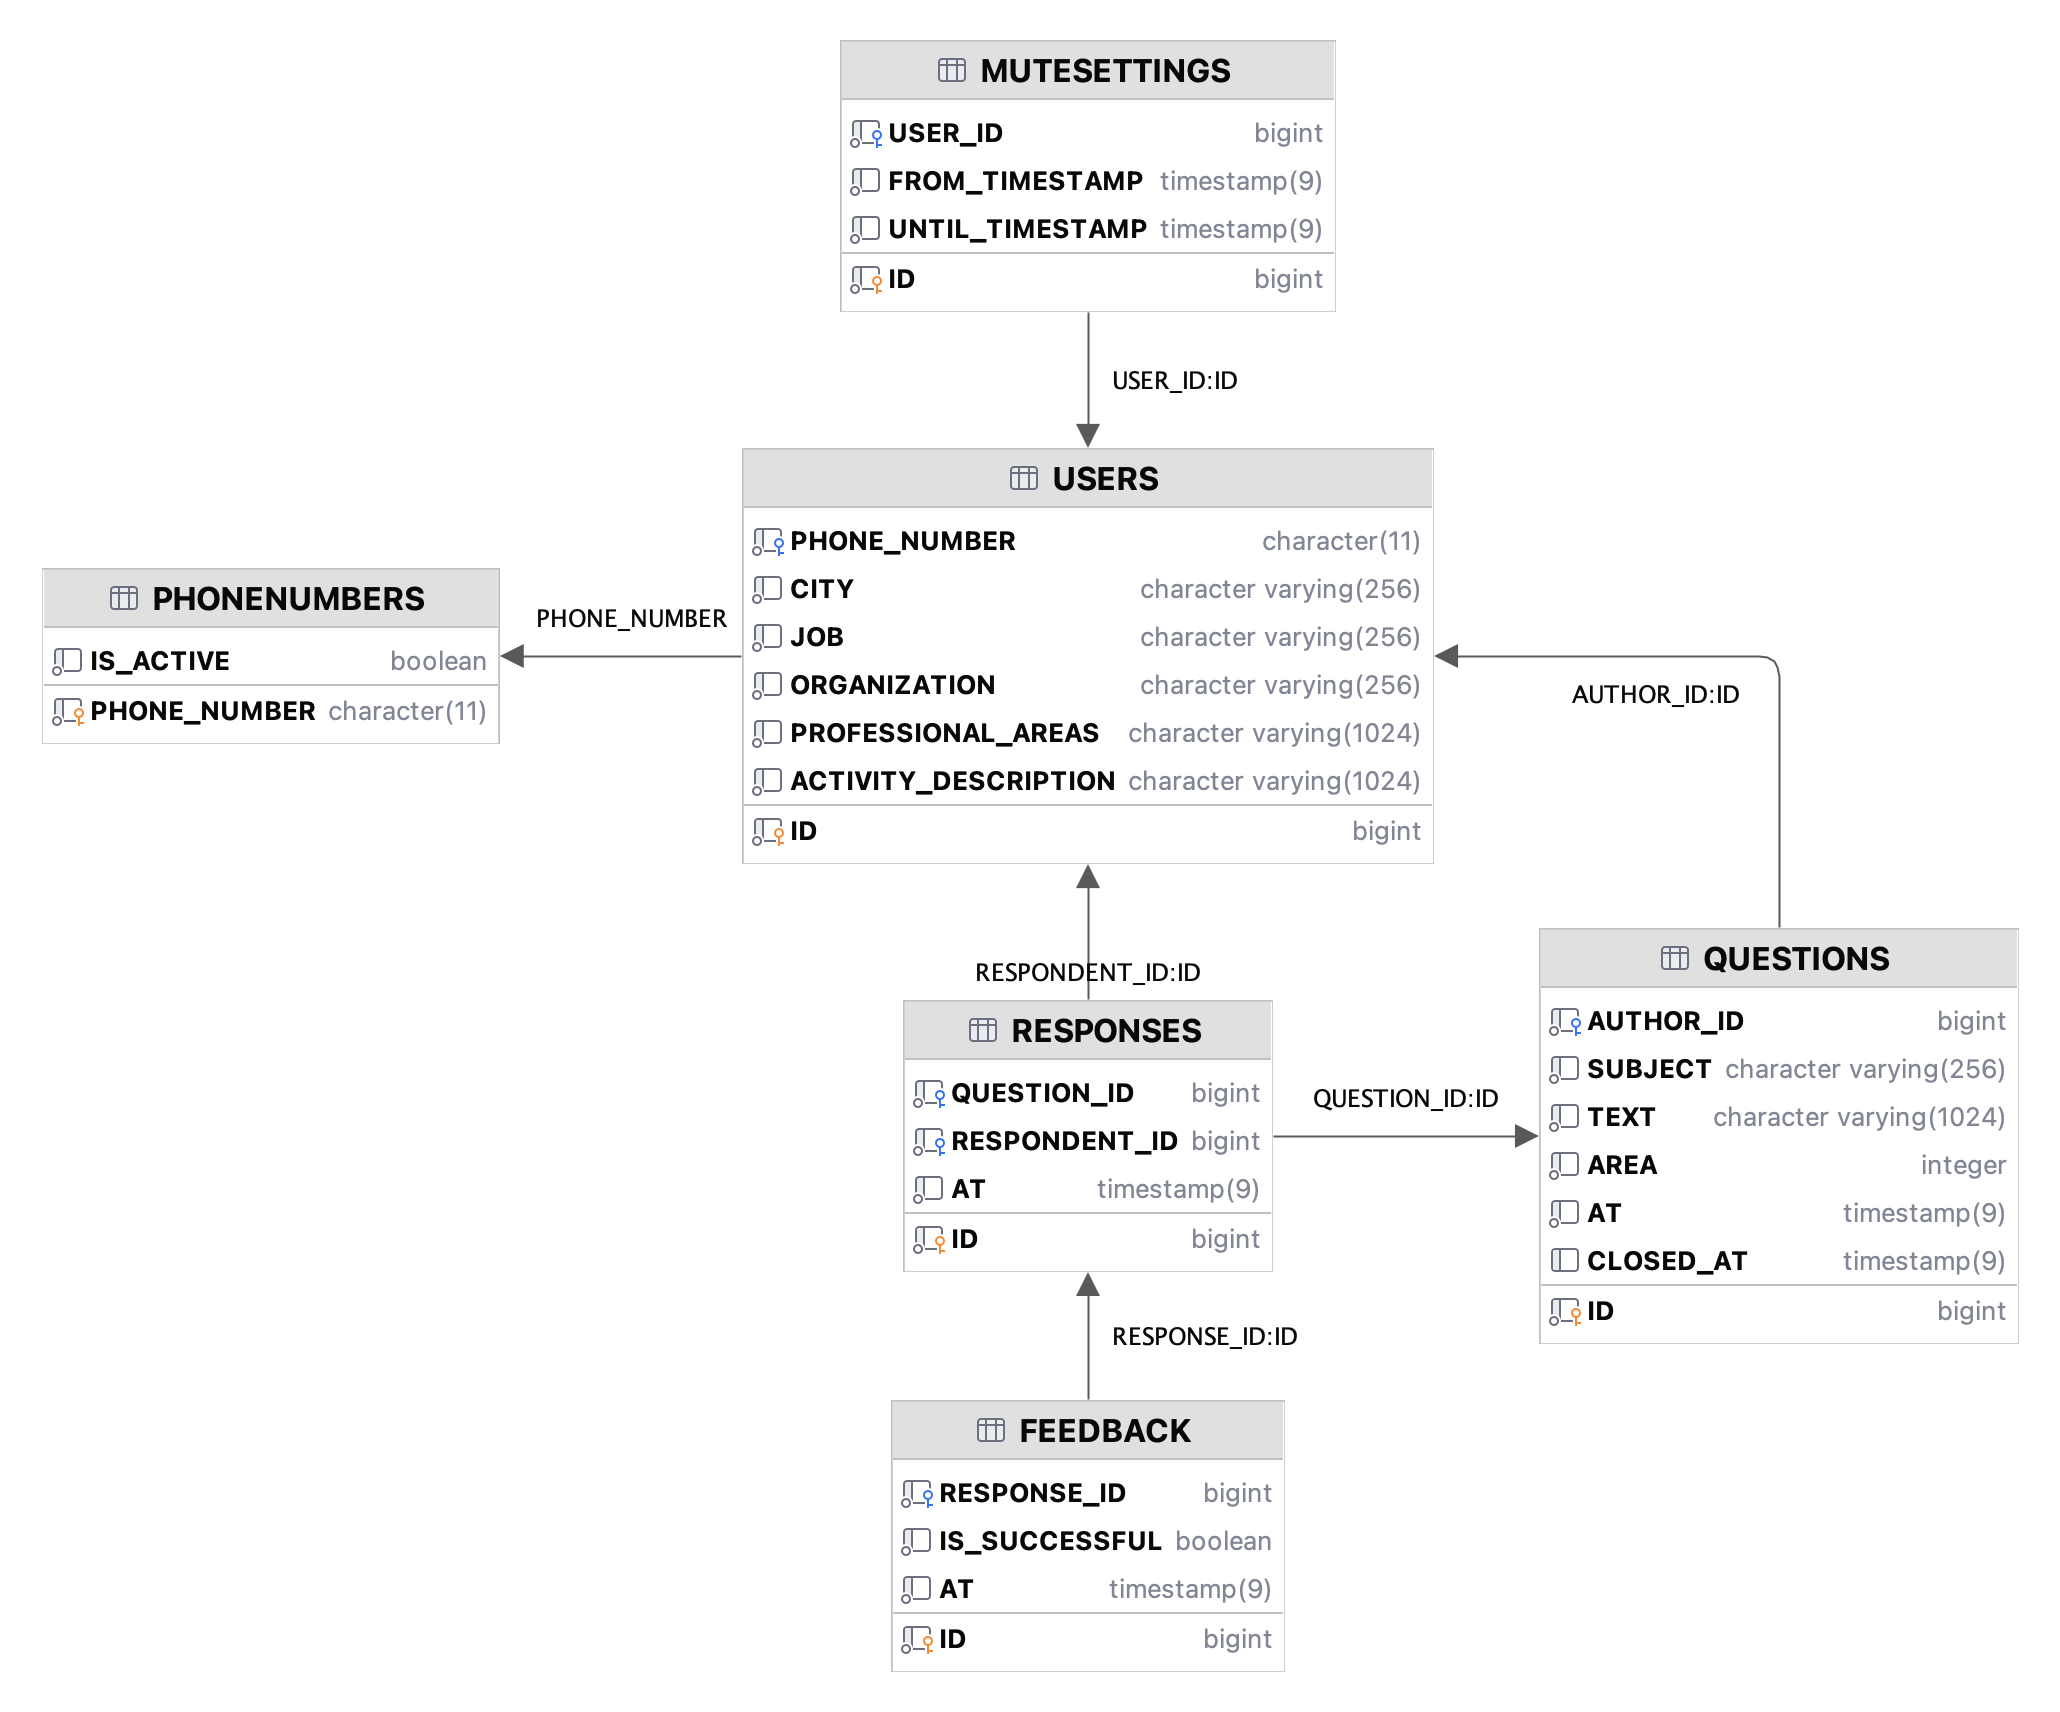
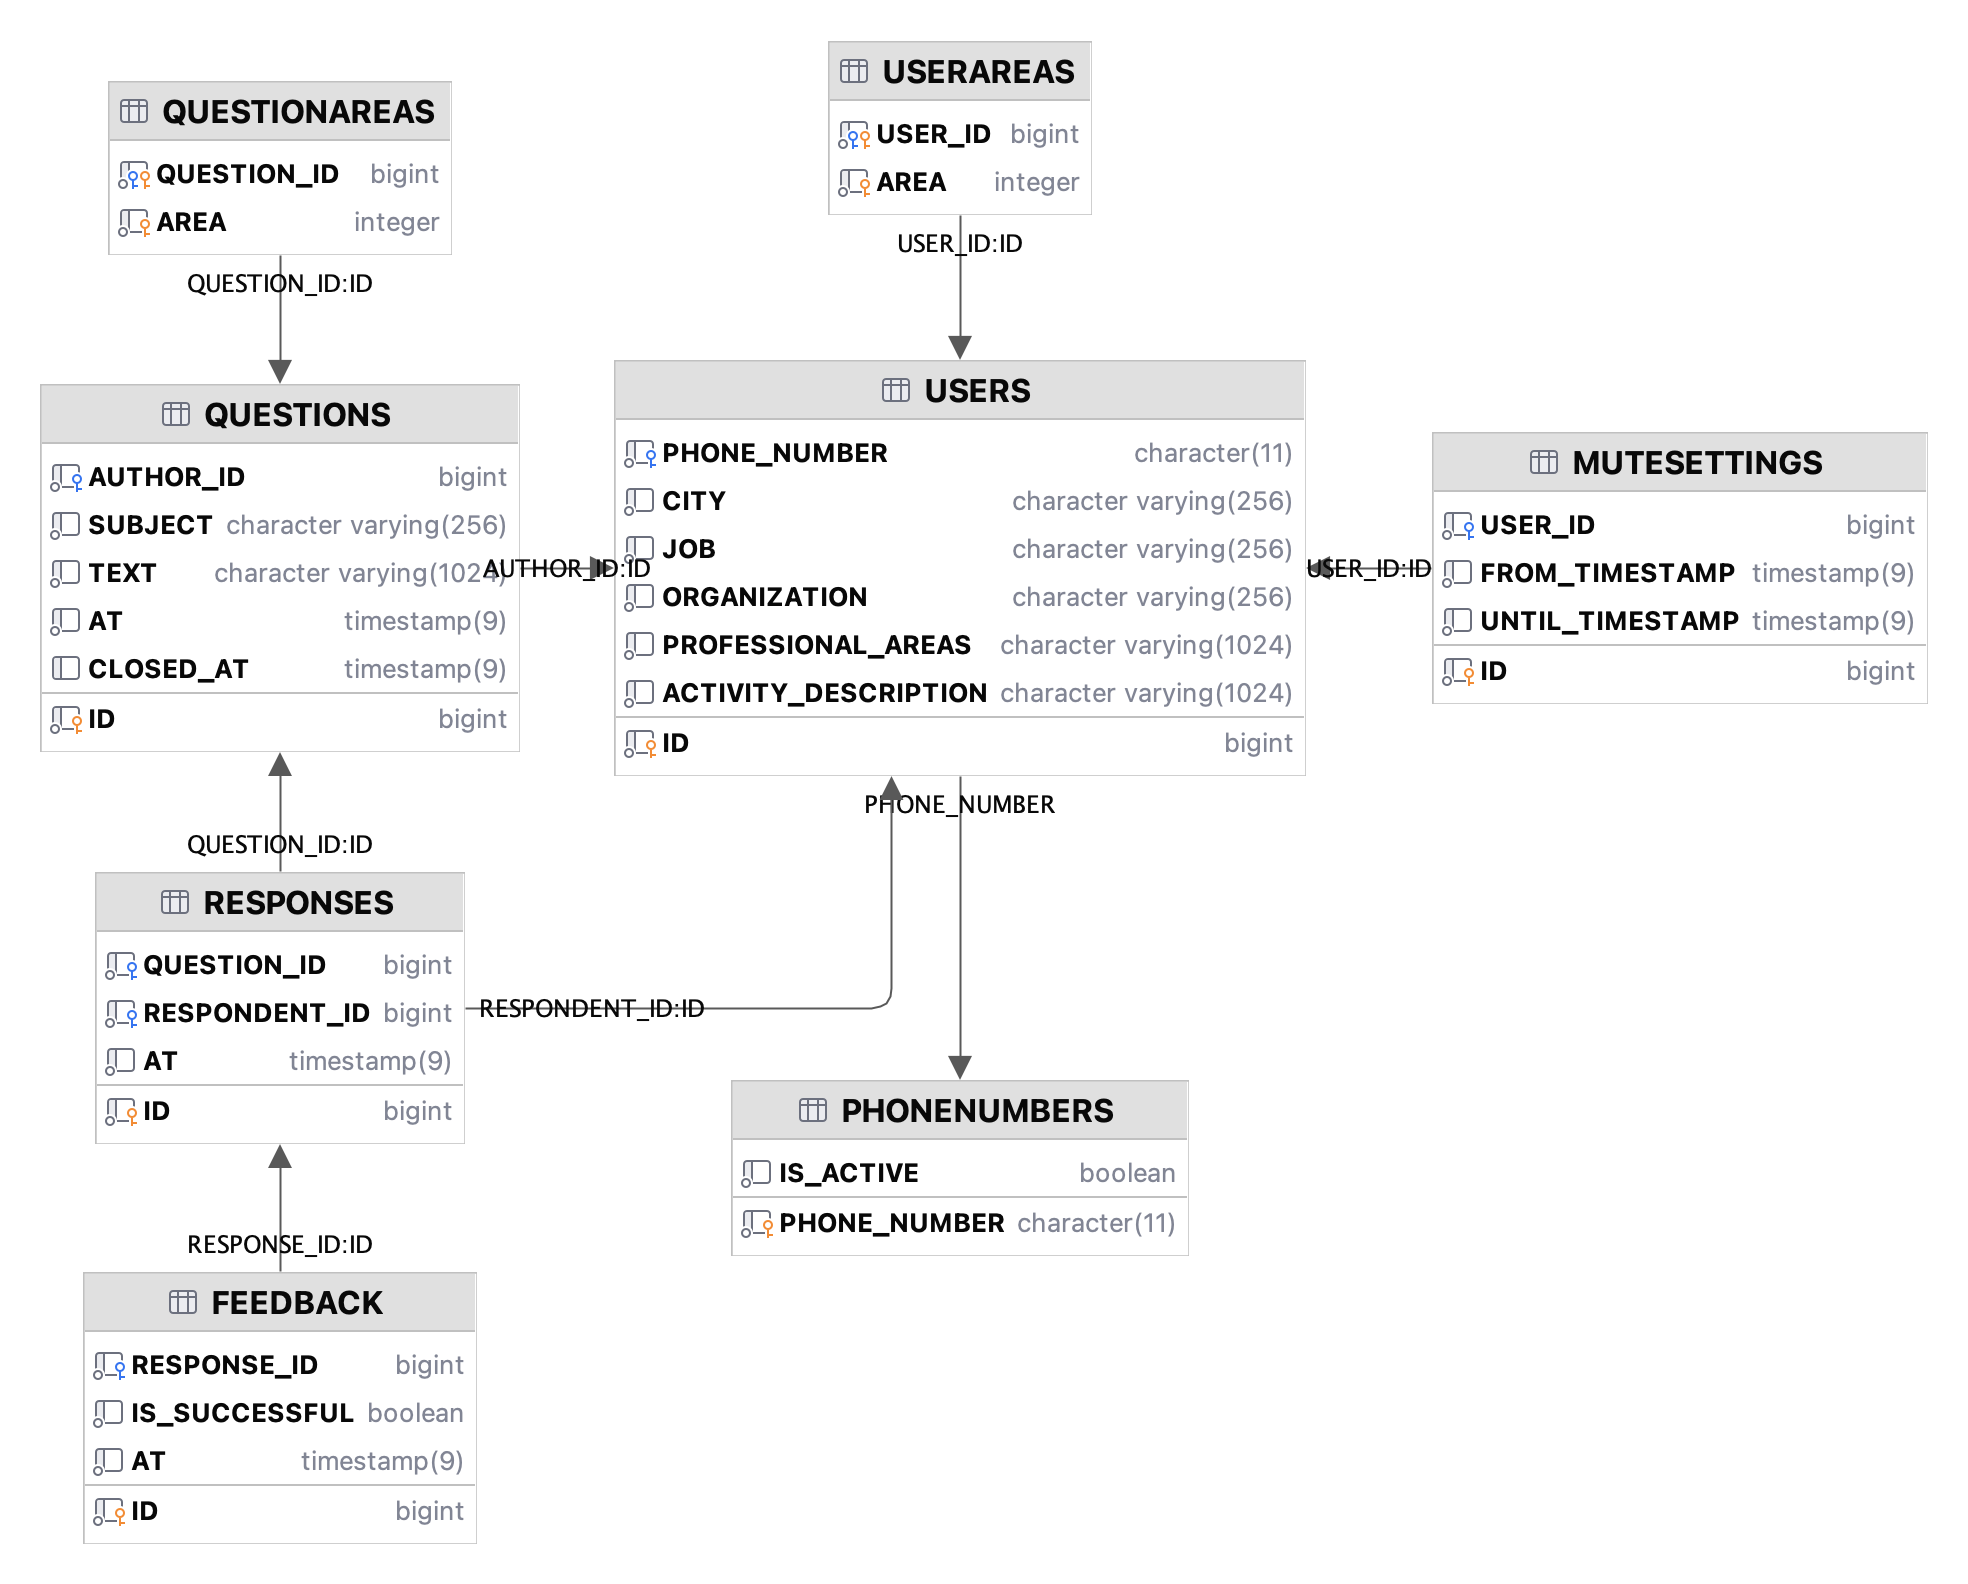
Add multichoice areas

diff --git a/src/main/kotlin/Module.kt b/src/main/kotlin/Module.kt
@@ -1,4 +1,5 @@
 import auth.data.tables.PhoneNumbers
+import auth.data.tables.UserAreas
 import auth.data.tables.Users
 import config.readBotConfig
 import feedback.data.tables.Feedback
@@ -8,6 +9,7 @@ import org.jetbrains.exposed.sql.SchemaUtils
 import org.jetbrains.exposed.sql.transactions.transaction
 import org.koin.dsl.module
 import org.koin.ksp.generated.defaultModule
+import qna.data.tables.QuestionAreas
 import qna.data.tables.Questions
 import qna.data.tables.Responses
 
@@ -18,7 +20,9 @@ val dataModule = module(createdAtStart = true) {
                 SchemaUtils.createMissingTablesAndColumns(
                     PhoneNumbers,
                     Users,
+                    UserAreas,
                     Questions,
+                    QuestionAreas,
                     Responses,
                     Feedback,
                     MuteSettings

diff --git a/src/main/kotlin/qna/data/tables/QuestionAreas.kt b/src/main/kotlin/qna/data/tables/QuestionAreas.kt
@@ -1,0 +1,12 @@
+package qna.data.tables
+
+import org.jetbrains.exposed.dao.id.EntityID
+import org.jetbrains.exposed.sql.Column
+import org.jetbrains.exposed.sql.Table
+import qna.domain.entities.QuestionArea
+
+object QuestionAreas : Table() {
+    val questionId: Column<EntityID<Long>> = reference("question_id", Questions)
+    val area: Column<QuestionArea> = enumeration<QuestionArea>("area").index()
+    override val primaryKey = PrimaryKey(questionId, area)
+}

diff --git a/src/main/kotlin/auth/data/tables/UserAreas.kt b/src/main/kotlin/auth/data/tables/UserAreas.kt
@@ -1,0 +1,12 @@
+package auth.data.tables
+
+import org.jetbrains.exposed.dao.id.EntityID
+import org.jetbrains.exposed.sql.Column
+import org.jetbrains.exposed.sql.Table
+import qna.domain.entities.QuestionArea
+
+object UserAreas : Table() {
+    val userId: Column<EntityID<Long>> = reference("user_id", Users)
+    val area: Column<QuestionArea> = enumeration<QuestionArea>("area").index()
+    override val primaryKey = PrimaryKey(userId, area)
+}

diff --git a/src/main/kotlin/qna/data/tables/Questions.kt b/src/main/kotlin/qna/data/tables/Questions.kt
@@ -12,7 +12,6 @@ object Questions : LongIdTable() {
     val authorId: Column<EntityID<Long>> = reference("author_id", Users).index()
     val subject: Column<String> = varchar("subject", length = 256)
     val text: Column<String> = varchar("text", length = 1024)
-    val area: Column<QuestionArea> = enumeration("area")
     val at: Column<Instant> = timestamp("at")
     val closedAt: Column<Instant?> = timestamp("closed_at").nullable()
 }
